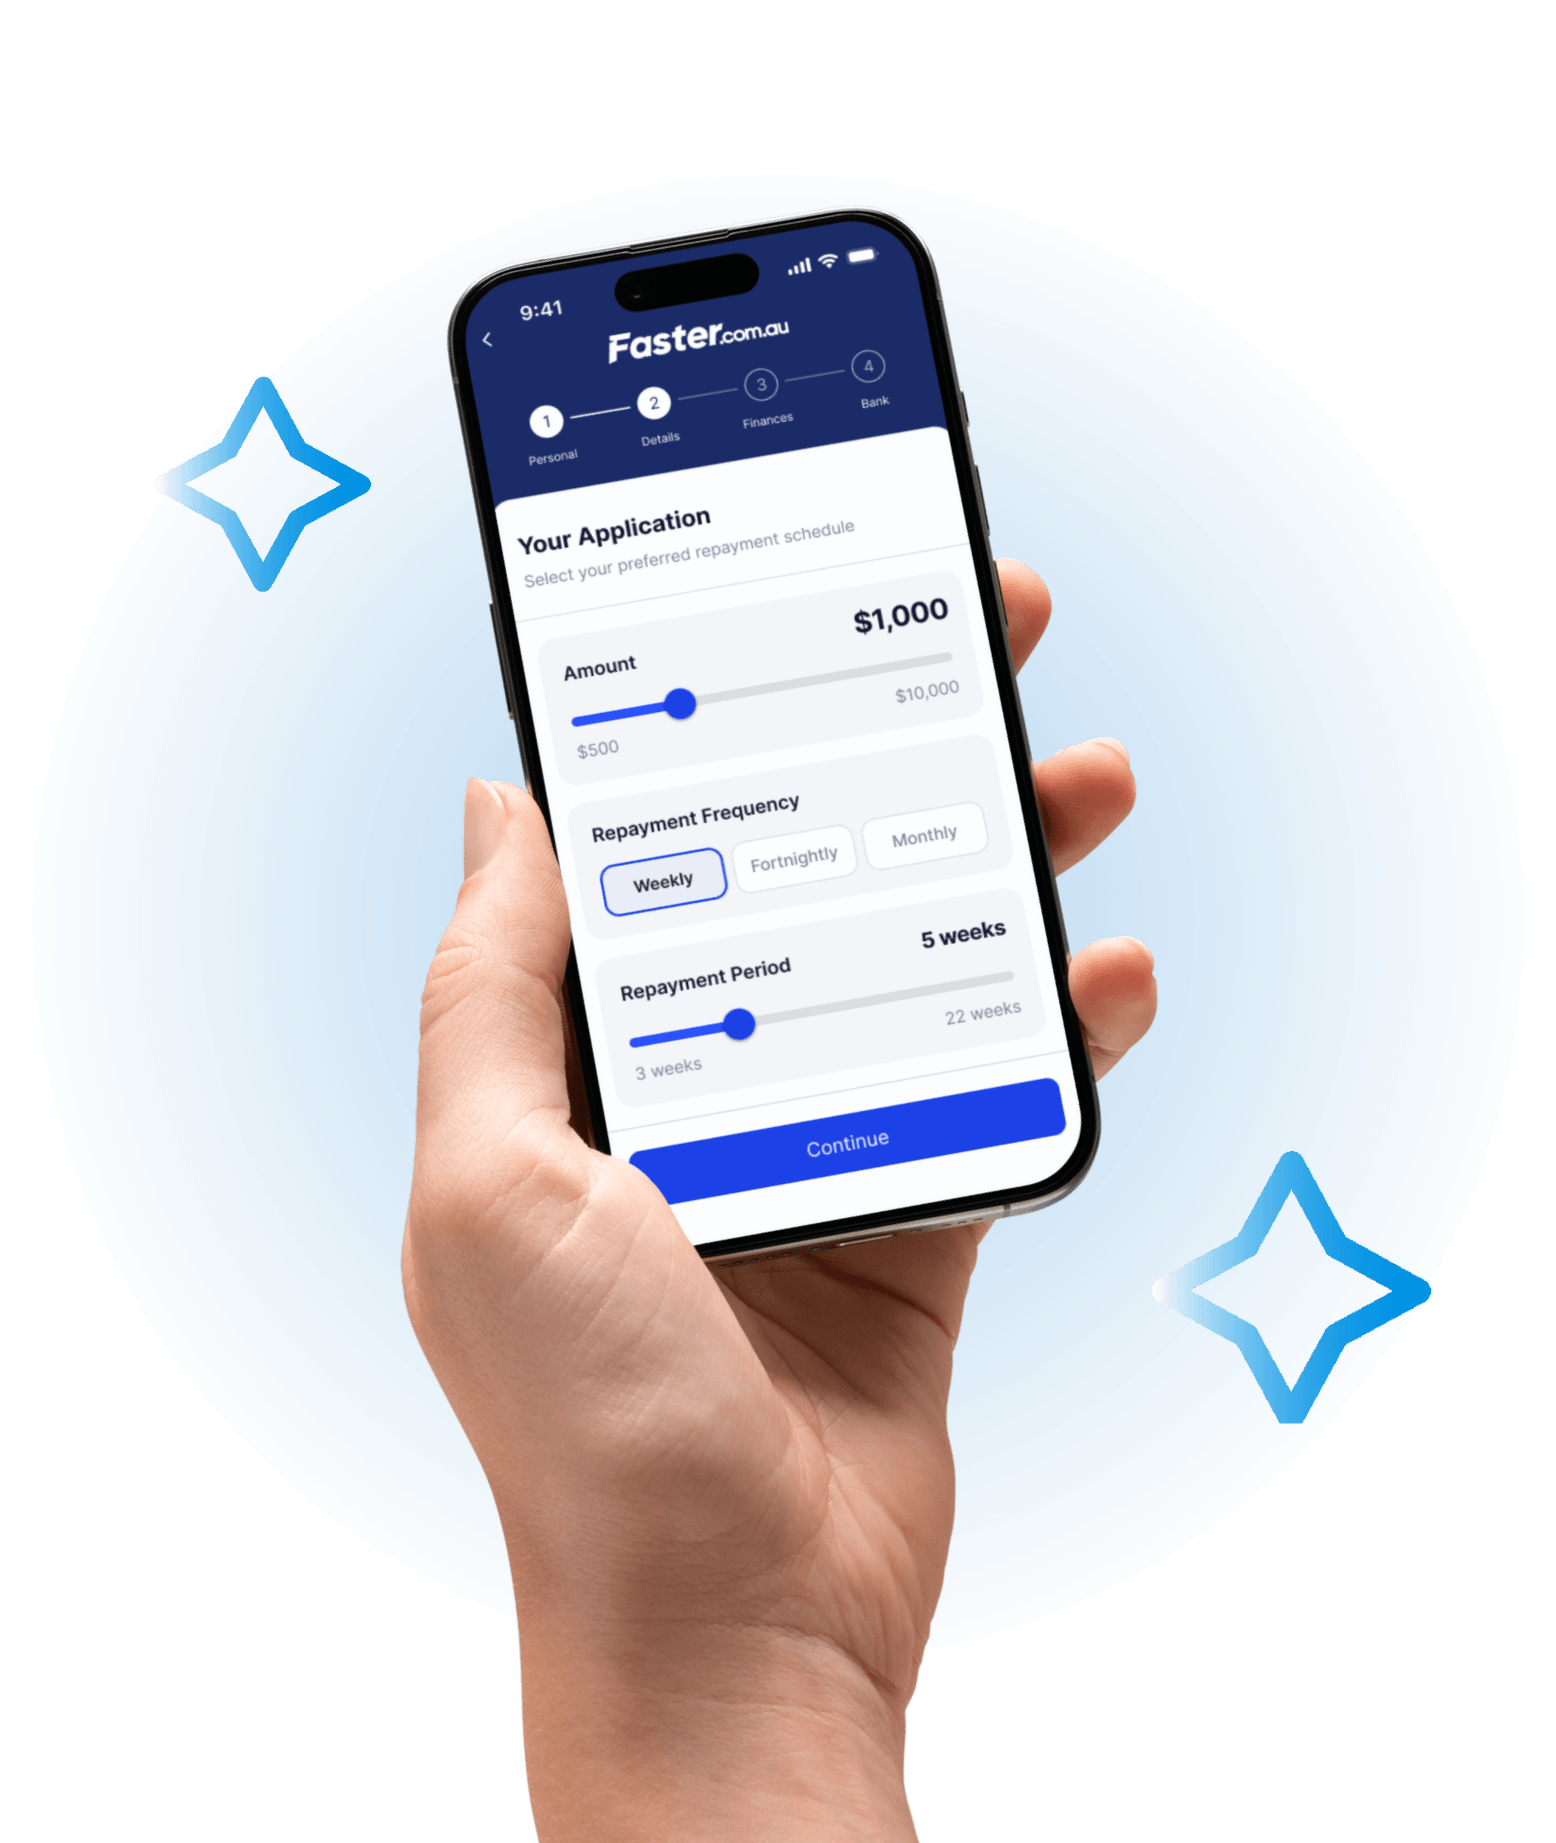
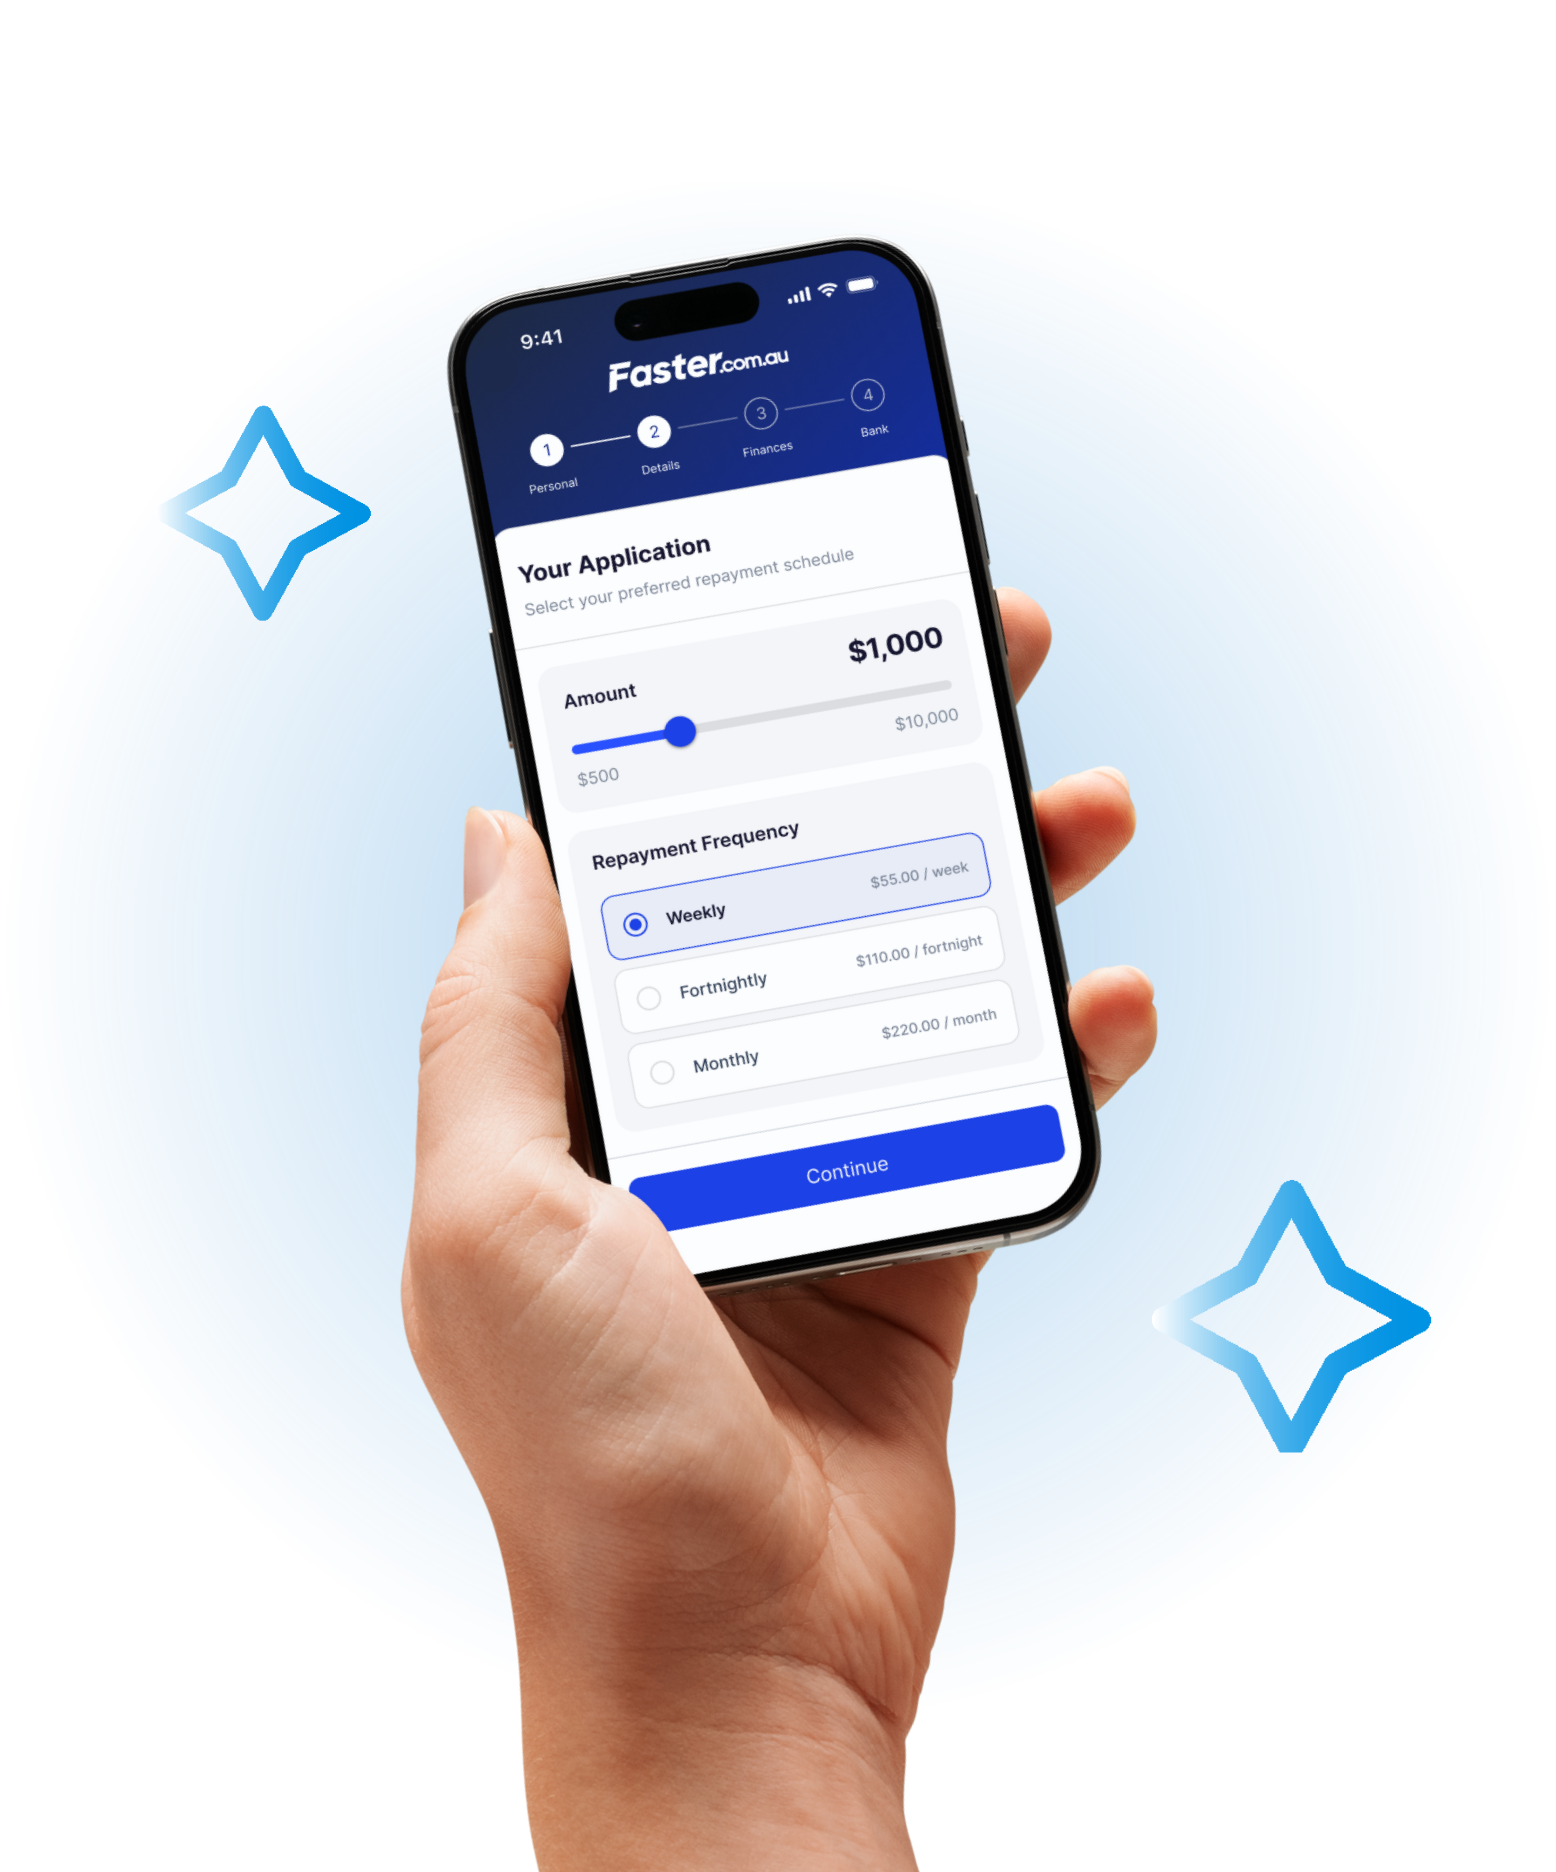
update calculations

diff --git a/src/pages/Fees.tsx b/src/pages/Fees.tsx
@@ -99,6 +99,7 @@ interface SchedRow {
   repaid: string;
   close: string;
   isDraw?: boolean;
+  isBreak?: boolean;
   isDone?: boolean;
   doneText?: ReactNode;
 }
@@ -109,10 +110,10 @@ const WORKED_SUMMARY_ROWS: {
   total?: boolean;
   zero?: boolean;
 }[] = [
-  { label: "Limit drawn", value: "$450.00" },
+  { label: "Limit drawn", value: "$1,000.00" },
   { label: "Drawdown / establishment fee", value: "$0.00", zero: true },
-  { label: "Total interest · 47% p.a. over ~8-9 weeks", value: "$19.62" },
-  { label: "Total you repay", value: "$469.62", total: true },
+  { label: "Total interest · 47% p.a. over ~19-20 weeks", value: "$97.09" },
+  { label: "Total you repay", value: "$1,097.09", total: true },
 ];
 
 const SCHEDULE_ROWS: SchedRow[] = [
@@ -120,71 +121,91 @@ const SCHEDULE_ROWS: SchedRow[] = [
     period: "Draw",
     open: "$0.00",
     interest: "—",
-    repaid: "+$450.00",
-    close: "$450.00",
+    repaid: "+$1,000.00",
+    close: "$1,000.00",
     isDraw: true,
   },
   {
     period: "W1",
-    open: "$450.00",
-    interest: "+$4.06",
+    open: "$1,000.00",
+    interest: "+$9.01",
     repaid: "−$55.00",
-    close: "$399.06",
+    close: "$954.01",
   },
   {
     period: "W2",
-    open: "$399.06",
-    interest: "+$3.60",
+    open: "$954.01",
+    interest: "+$8.60",
     repaid: "−$55.00",
-    close: "$347.66",
+    close: "$907.61",
   },
   {
     period: "W3",
-    open: "$347.66",
-    interest: "+$3.13",
+    open: "$907.61",
+    interest: "+$8.18",
     repaid: "−$55.00",
-    close: "$295.79",
+    close: "$860.79",
   },
   {
     period: "W4",
-    open: "$295.79",
-    interest: "+$2.67",
+    open: "$860.79",
+    interest: "+$7.76",
     repaid: "−$55.00",
-    close: "$243.46",
+    close: "$813.55",
   },
   {
     period: "W5",
-    open: "$243.46",
-    interest: "+$2.19",
+    open: "$813.55",
+    interest: "+$7.33",
     repaid: "−$55.00",
-    close: "$190.65",
+    close: "$765.88",
   },
   {
     period: "W6",
-    open: "$190.65",
-    interest: "+$1.72",
+    open: "$765.88",
+    interest: "+$6.90",
     repaid: "−$55.00",
-    close: "$137.37",
+    close: "$717.78",
   },
   {
     period: "W7",
-    open: "$137.37",
-    interest: "+$1.24",
+    open: "$717.78",
+    interest: "+$6.47",
     repaid: "−$55.00",
-    close: "$83.61",
+    close: "$669.25",
   },
   {
     period: "W8",
-    open: "$83.61",
-    interest: "+$0.75",
+    open: "$669.25",
+    interest: "+$6.03",
     repaid: "−$55.00",
-    close: "$29.36",
+    close: "$620.28",
   },
   {
-    period: "W9",
-    open: "$29.36",
-    interest: "+$0.26",
-    repaid: "−$29.62",
+    period: "",
+    open: "",
+    interest: "",
+    repaid: "",
+    close: "",
+    isBreak: true,
+    doneText: (
+      <>
+        ...continues weekly...
+      </>
+    ),
+  },
+  {
+    period: "W19",
+    open: "$105.67",
+    interest: "+$0.95",
+    repaid: "−$55.00",
+    close: "$51.62",
+  },
+  {
+    period: "W20",
+    open: "$51.62",
+    interest: "+$0.47",
+    repaid: "−$52.09",
     close: "$0.00",
   },
   {
@@ -196,8 +217,8 @@ const SCHEDULE_ROWS: SchedRow[] = [
     isDone: true,
     doneText: (
       <>
-        Total repaid: <span className="text-primary font-bold">$469.62</span>{" "}
-        ($450 drawn + $19.62 interest)
+        Total repaid: <span className="text-primary font-bold">$1,097.09</span>{" "}
+        ($1,000 drawn + $97.09 interest)
       </>
     ),
   },
@@ -205,7 +226,7 @@ const SCHEDULE_ROWS: SchedRow[] = [
 
 const CT_MINI_ROWS = [
   { label: "Repayment · weekly", value: "$55.00" },
-  { label: "Total interest · est.", value: "$19.62" },
+  { label: "Total interest · est. over ~20 weeks", value: "$97.09" },
 ];
 
 // ─── Page ─────────────────────────────────────────────────────────────────────
@@ -374,10 +395,10 @@ export default function Fees() {
                     Example
                   </div>
                   <div className="text-[14.5px] text-muted-primary leading-[1.6]">
-                    <span className="text-muted-secondary">$450 balance</span> ×
-                    (47% ÷ 365){" "}
+                    <span className="text-muted-secondary">$1,000 balance</span> ×
+                    (47% ÷ 365) × 7 days{" "}
                     <span className="text-primary font-bold ml-1">
-                      = about $4.06 across week one
+                      = about $9.01 across week one.
                     </span>
                   </div>
                   <div className="text-[12px] text-ink-light mt-2.5 leading-[1.45]">
@@ -410,7 +431,7 @@ export default function Fees() {
                 className="text-[clamp(32px,3.8vw,46px)] leading-[1.05] tracking-[-0.025em] font-bold mb-3.5 text-bg-primary"
                 style={{ textWrap: "balance" } as React.CSSProperties}
               >
-                What does this look like on a $450 limit?
+                What does this look like on a $1,000 limit?
               </h2>
               <p className="text-[clamp(16px,3.5vw,18px)] text-bg-secondary/70 m-0 leading-[1.55]">
                 This is a first-loan example — interest only on the drawn
@@ -429,13 +450,13 @@ export default function Fees() {
                   <p className="text-[17px] leading-[1.45] text-bg-secondary/85 mb-[22px]">
                     You're approved for a{" "}
                     <strong className="text-bg-primary font-semibold">
-                      $450 limit
+                      $1,000 limit
                     </strong>
                     , draw the full amount, and repay{" "}
                     <strong className="text-bg-primary font-semibold">
                       $55/week
                     </strong>{" "}
-                    over the next ~8-9 weeks.
+                    over the next ~19-20 weeks.
                   </p>
 
                   <table className="w-full border-collapse text-[14.5px]">
@@ -520,6 +541,15 @@ export default function Fees() {
                             <td
                               colSpan={5}
                               className="p-5 text-[13.5px] text-muted-secondary font-semibold text-center border-t border-border-subtle"
+                            >
+                              {row.doneText}
+                            </td>
+                          </tr>
+                        ) : row.isBreak ? (
+                          <tr key={i} className="bg-gradient-to-br from-bg-secondary/50 to-bg-primary">
+                            <td
+                              colSpan={5}
+                              className="p-[12px] text-[12px] text-muted-secondary text-center border-b border-border-subtle"
                             >
                               {row.doneText}
                             </td>
@@ -774,7 +804,7 @@ export default function Fees() {
                   Try the calculator with your scenario.
                 </h3>
                 <p className="text-[clamp(14px,3.5vw,16px)] text-muted-secondary mb-6 leading-[1.55] max-w-[48ch] mx-auto lg:mx-0">
-                  The calculator lets you slide in any draw amount from $100 to
+                  The calculator lets you slide in any draw amount up to
                   $10,000 against weekly, fortnightly or monthly repayments —
                   and shows the same fee structure applied to your numbers.
                 </p>
@@ -805,7 +835,7 @@ export default function Fees() {
                   If you drew
                 </div>
                 <div className="text-[28px] font-bold text-primary tracking-[-0.02em] tabular-nums mb-3">
-                  $450
+                  $1,000
                 </div>
                 <div className="h-1.5 bg-border-subtle rounded-full mb-3.5 overflow-hidden">
                   <div className="w-[25%] h-full bg-primary rounded-full" />
@@ -823,7 +853,7 @@ export default function Fees() {
                 ))}
                 <div className="flex justify-between text-[12px] py-1 mt-2 pt-2.5 border-t border-border-subtle">
                   <span className="text-text-primary">Total to repay</span>
-                  <strong className="text-primary text-[14px]">$469.62</strong>
+                  <strong className="text-primary text-[14px]">$1,097.09</strong>
                 </div>
               </div>
             </div>

diff --git a/src/components/LoanCalculator.tsx b/src/components/LoanCalculator.tsx
@@ -11,7 +11,7 @@ const FIXED_REPAYMENT = {
     unit: "fortnights",
     daysPerPeriod: 14,
   },
-  monthly: { amount: 238.33, per: "month", unit: "months", daysPerPeriod: 30 },
+  monthly: { amount: 220.0, per: "month", unit: "months", daysPerPeriod: 30 },
 };
 
 const ANNUAL_RATE = 0.47;
@@ -52,11 +52,11 @@ function calcRepayment(drawn: number, frequency: Frequency) {
 const freqOptions: { key: Frequency; label: string; sub: string }[] = [
   { key: "weekly", label: "Weekly", sub: "$55.00 / week" },
   { key: "fortnightly", label: "Fortnightly", sub: "$110.00 / fortnight" },
-  { key: "monthly", label: "Monthly", sub: "$238.33 / month" },
+  { key: "monthly", label: "Monthly", sub: "$220.00 / month" },
 ];
 
 export default function LoanCalculator() {
-  const [drawAmount, setDrawAmount] = useState(450);
+  const [drawAmount, setDrawAmount] = useState(1000);
   const [frequency, setFrequency] = useState<Frequency>("weekly");
 
   const { totalInterest, totalRepaid, periods, maxPeriods, f } = useMemo(
@@ -104,7 +104,7 @@ export default function LoanCalculator() {
       </div>
 
       {/* Frequency */}
-      <div className="mb-5">
+      <div className="mb-8 md:mb-6">
         <h2 className="text-[17px] font-semibold text-text-primary mb-3">
           How often will you repay?
         </h2>
@@ -174,7 +174,7 @@ export default function LoanCalculator() {
           ))}
         </div>
 
-        <p className="text-xs leading-snug text-muted-primary text-left">
+        <p className="text-[10px] leading-snug text-muted-primary text-left">
           This Line of Credit calculator provides{" "}
           <strong>estimates only</strong>. Actual results may vary based on how
           and when funds are drawn, repaid, or re-drawn, and may be affected by

diff --git a/src/utils/faqs.tsx b/src/utils/faqs.tsx
@@ -171,7 +171,7 @@ export const FEES_FAQS: FaqEntry[] = [
       <>
         We use a fixed-amount repayment schedule so your per-period commitment
         stays predictable. Drawing more <em>extends</em> the time you'll spend
-        repaying — it doesn't raise the weekly amount. You can always make extra
+        repaying — it doesn't raise the repayment amount. You can always make extra
         repayments to clear it sooner.
       </>
     ),
@@ -289,7 +289,7 @@ export const HIW_FAQS: FaqEntry[] = [
       "Why does the same limit produce different repayment terms for different people?",
     answer: (
       <>
-        The per-period repayment amount ($55 / $110 / $238.33 for weekly /
+        The per-period repayment amount ($55 / $110 / $220 for weekly /
         fortnightly / monthly) is fixed for the product. What changes is the{" "}
         <strong className="text-text-primary">term</strong> — how many periods
         you'll be paying. Drawing more means a longer term, not a higher

diff --git a/src/pages/Calculator.tsx b/src/pages/Calculator.tsx
@@ -145,7 +145,7 @@ export default function Calculator() {
               </h2>
               <p className="text-[clamp(16px,3.5vw,18px)] text-muted-secondary m-0 leading-[1.55]">
                 The repayment is fixed and predictable. Drawing more extends
-                your term, it doesn&apos;t raise your weekly cost.
+                your term, it doesn&apos;t raise your repayment cost.
               </p>
             </div>
 
